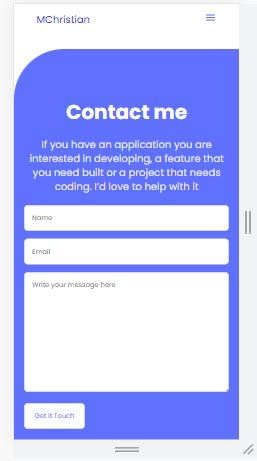
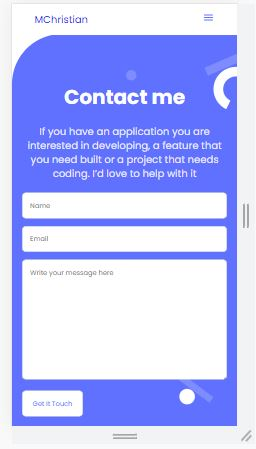
Added background image and ignored node_modules

Changed region(s): [[0.0312, 0.0312, 1.0, 0.9978], [0.9375, 0.9354, 1.0, 0.9978]]

diff --git a/style.css b/style.css
@@ -267,7 +267,7 @@ section {
 }
 
 .section-form {
-  background: #6070ff;
+  background: #6070ff url("images/Cbackground.png") no-repeat right;
   border-top-left-radius: 100px;
   margin-top: 60px;
 }
